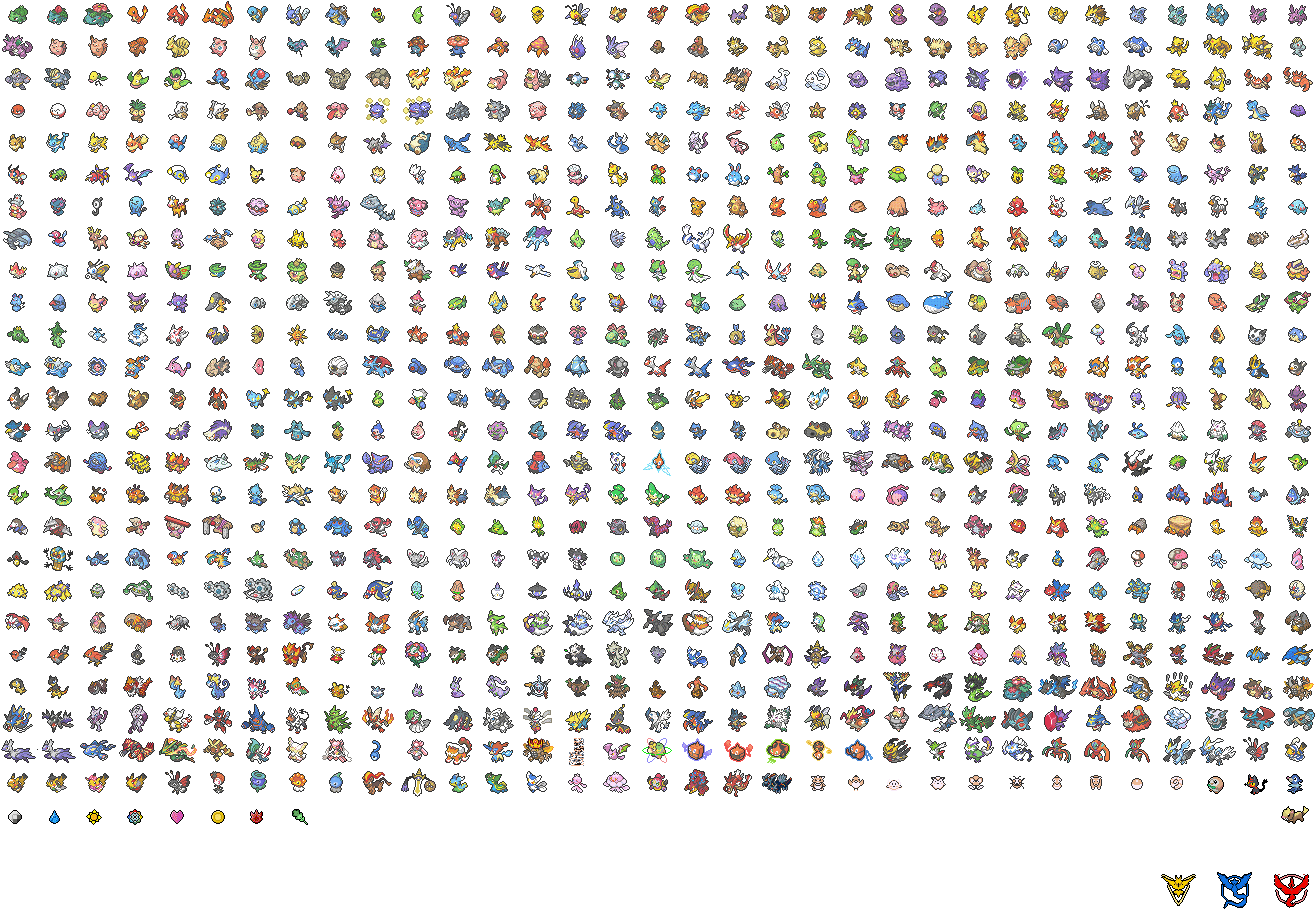
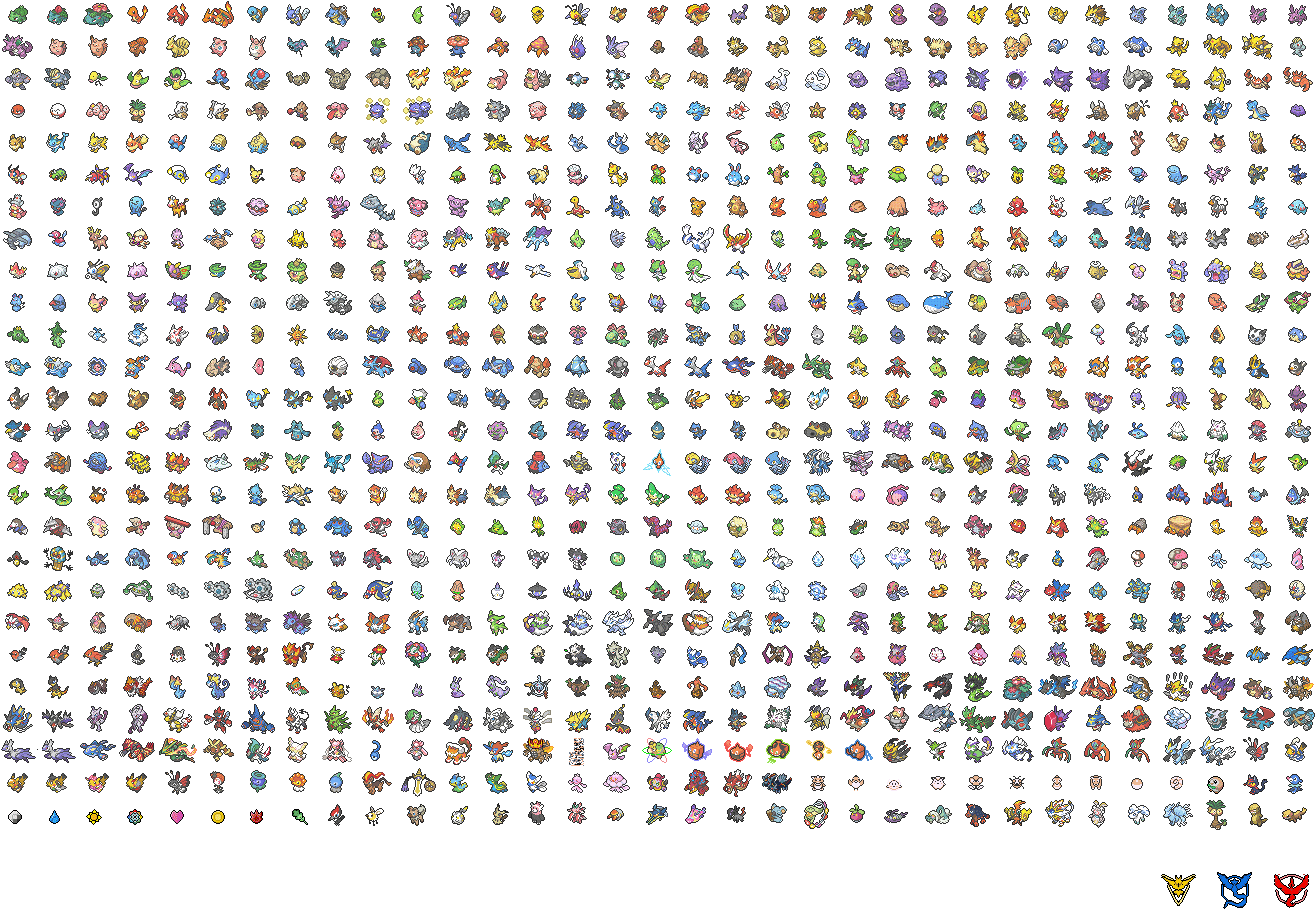
Add flairs

diff --git a/src/userflair.css b/src/userflair.css
@@ -98,7 +98,31 @@
 .flair-725{background:-1236px -770px}
 .flair-728{background:-1275px -770px}
 
-.flair-yungoos { background: -1272px -800px; }
+.flair-yungoos{background:-1272px -800px}
+.flair-gumshoos{background:-1238px -800px}
+.flair-pikipek{background:-318px -800px}
+.flair-cutiefly{background:-356px -800px}
+.flair-rockruff{background:-398px -800px}
+.flair-togedemaru{background:-440px -800px}
+.flair-mimikyu{background:-480px -800px}
+.flair-bewear{background:-519px -797px}
+.flair-lurantis{background:-559px -797px}
+.flair-grubin{background:-597px -800px}
+.flair-vikavolt{background:-639px -800px}
+.flair-bruxish{background:-678px -800px}
+.flair-salandit{background:-719px -800px}
+.flair-komala{background:-758px -798px}
+.flair-comfey{background:-799px -798px}
+.flair-bounsweet{background:-839px -798px}
+.flair-wimpod{background:-877px -800px}
+.flair-drampa{background:-919px -800px}
+.flair-mudsdale{background:-957px -800px}
+.flair-tapukoko{background:-999px -797px}
+.flair-solgaleo{background:-1042px -797px}
+.flair-magearna{background:-1080px -799px}
+.flair-a37{background:-1120px -798px}
+.flair-a38{background:-1160px -799px}
+.flair-a103{background:-1198px -800px}
 
 .flair {
     background-image: url(%%Flair%%);
